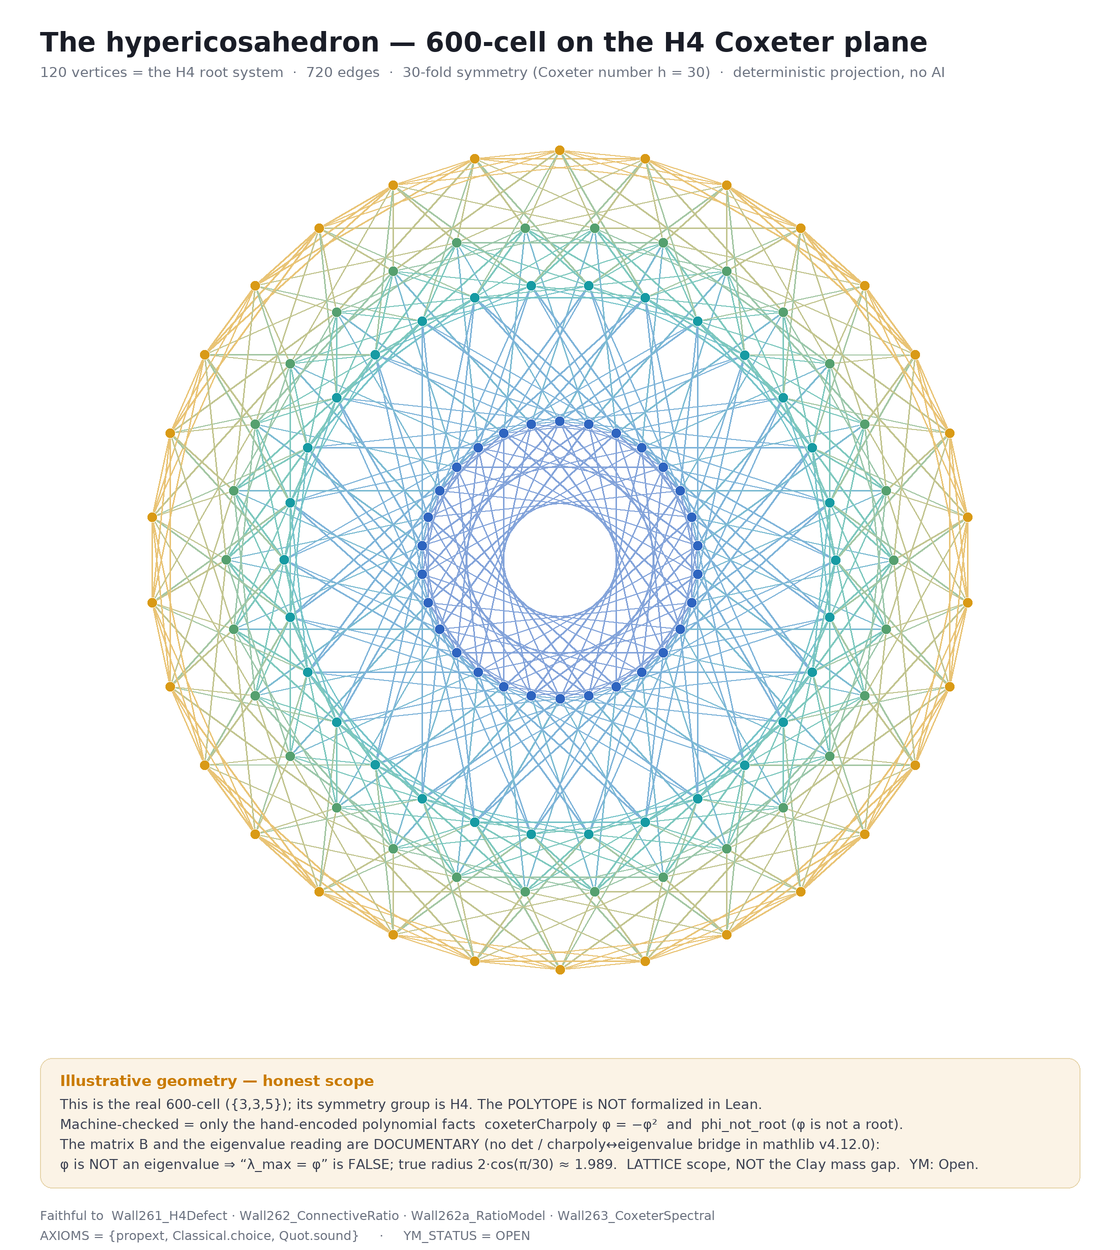
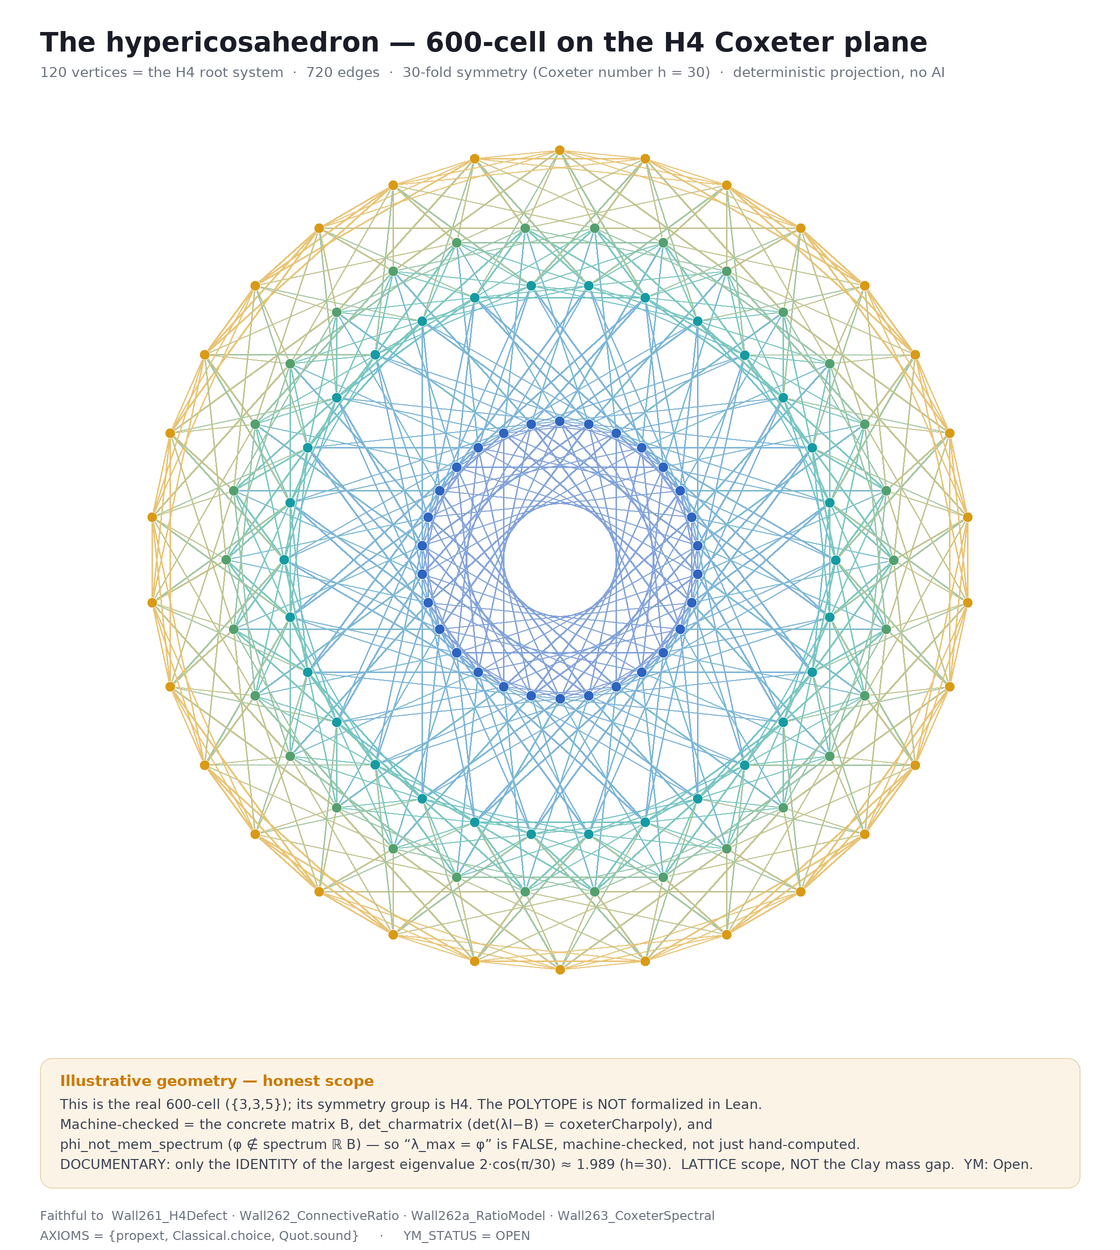
Wall263: machine-check the H4 Coxeter matrix↔charpoly↔eigenvalue bridge
Task: "prove this machine code" — close the documentary gap in the registered
brick Wall263_CoxeterSpectral.lean so that the φ-refutation is machine-checked,
not just hand-computed.

What landed (lean-proof-towers/Towers/YM/Wall263_CoxeterSpectral.lean):
- Concrete `B : Matrix (Fin 4) (Fin 4) ℝ` (= 2I − M_H4).
- `charmatrix_eq`, `det_charmatrix` (det(λ·I − B) = coxeterCharpoly λ, via
  Laplace cofactor expansion — mathlib v4.12.0 has no det_fin_four),
  `det_charmatrix_phi` (= −φ²), and `phi_not_mem_spectrum` (φ ∉ spectrum ℝ B,
  via spectrum.not_mem_iff + isUnit_iff_isUnit_det).
- Updated header + phi_not_root docstrings: DOCUMENTARY → MACHINE-CHECKED for
  the matrix/det/φ-not-eigenvalue bridge; the IDENTITY of the largest eigenvalue
  (2cos(π/30), h=30) and the 120-/600-cell polytope stay DOCUMENTARY.

Verification: `lake env lean` EXIT=0; all 5 theorems #print axioms = classical
trio [propext, Classical.choice, Quot.sound], no sorry/sorryAx. Architect review
PASS (non-vacuous; honesty claims accurate).

Honesty: YM stays Status: Open. NO mass gap / μ>0 / Surface-#1 / YM-result claim
— only the linear-algebra fact that φ is not an eigenvalue of B is closed.

Also: regenerated docs/H4_CoxeterModel.svg + H4_Hypericosahedron.png card
(scripts/gen_h4_hypericosahedron.py) to PROVEN; updated replit.md Wall263 entry.

Env note: recovered lake via restore-lake-git.sh ×2 + recreated v4.12.0 tag as a
loose ref file (main agent cannot git tag). mathlib pin 809c3fb3 intact.

Changed region(s): [[0.0312, 0.8736, 0.9062, 0.936]]

diff --git a/scripts/gen_h4_hypericosahedron.py b/scripts/gen_h4_hypericosahedron.py
@@ -192,16 +192,16 @@ def build_png():
       "This is the real 600-cell ({3,3,5}); its symmetry group is H4. The "
       "POLYTOPE is NOT formalized in Lean.", f_body, INK2)
     T(60, ly + 58,
-      "Machine-checked = only the hand-encoded polynomial facts  "
-      "coxeterCharpoly \u03c6 = \u2212\u03c6\u00b2  and  phi_not_root "
-      "(\u03c6 is not a root).", f_body, INK2)
+      "Machine-checked = the concrete matrix B, det_charmatrix (det(\u03bbI\u2212B) "
+      "= coxeterCharpoly), and", f_body, INK2)
     T(60, ly + 78,
-      "The matrix B and the eigenvalue reading are DOCUMENTARY (no det / "
-      "charpoly\u2194eigenvalue bridge in mathlib v4.12.0):", f_body, INK2)
+      "phi_not_mem_spectrum (\u03c6 \u2209 spectrum \u211d B) \u2014 so "
+      "\u201c\u03bb_max = \u03c6\u201d is FALSE, machine-checked, not just hand-"
+      "computed.", f_body, INK2)
     T(60, ly + 98,
-      "\u03c6 is NOT an eigenvalue \u21d2 \u201c\u03bb_max = \u03c6\u201d is "
-      "FALSE; true radius 2\u00b7cos(\u03c0/30) \u2248 1.989.  LATTICE scope, "
-      "NOT the Clay mass gap.  YM: Open.", f_body, INK2)
+      "DOCUMENTARY: only the IDENTITY of the largest eigenvalue "
+      "2\u00b7cos(\u03c0/30) \u2248 1.989 (h=30).  LATTICE scope, NOT the Clay "
+      "mass gap.  YM: Open.", f_body, INK2)
     T(40, H - 42, FOOTER1, f_small, MUTED)
     T(40, H - 22, FOOTER2, f_small, MUTED)
 
@@ -270,9 +270,10 @@ def build_svg():
     # --- matrix B + true radius ---
     bh = 150
     half = (W - 80 - 20) / 2
-    # matrix box (documentary: matrix/det/bridge not formalized)
-    parts.append(rr(40, y, half, bh, 12, "#fbf3e6", "#e7d5ac"))
-    parts.append(pill(40 + half - 14, y + 12, "DOCUMENTARY", AMBER))
+    # matrix box (PROVEN: B, det, and phi-not-eigenvalue now machine-checked)
+    parts.append(rr(40, y, half, bh, 12, PANEL, BORDER))
+    parts.append(rr(40, y, 6, bh, 3, GREEN))
+    parts.append(pill(40 + half - 14, y + 12, "PROVEN", GREEN))
     parts.append(tx(60, y + 28, "B = 2I \u2212 M_H4", 14.5, INK, SANS, "bold"))
     Bm = [["0", "1", "0", "0"],
           ["1", "0", "1", "0"],
@@ -294,16 +295,17 @@ def build_svg():
     nx = gx + 4 * cell + 34
     parts.append(tx(nx, gy + 2 * cell - 8, "label-5 edge \u21a6 \u03c6", 12.5,
                     MUTED, SANS))
-    parts.append(tx(nx, gy + 2 * cell + 12, "matrix / det / eigenvalue", 11.5,
-                    MUTED, SANS))
-    parts.append(tx(nx, gy + 2 * cell + 28, "bridge: not in mathlib v4.12.0",
+    parts.append(tx(nx, gy + 2 * cell + 12, "det_charmatrix: det(\u03bbI\u2212B)",
+                    11.5, MUTED, SANS))
+    parts.append(tx(nx, gy + 2 * cell + 28, "= coxeterCharpoly (in Lean)",
                     11.5, MUTED, SANS))
 
     # true radius box
     rx0 = 40 + half + 20
-    parts.append(rr(rx0, y, half, bh, 12, "#fbf3e6", "#e7d5ac"))
-    parts.append(pill(rx0 + half - 14, y + 12, "DOCUMENTARY", AMBER))
-    parts.append(tx(rx0 + 18, y + 28, "Spectral reading", 14.5, AMBER,
+    parts.append(rr(rx0, y, half, bh, 12, PANEL, BORDER))
+    parts.append(rr(rx0, y, 6, bh, 3, GREEN))
+    parts.append(pill(rx0 + half - 14, y + 12, "PROVEN", GREEN))
+    parts.append(tx(rx0 + 18, y + 28, "Spectral reading", 14.5, GREEN,
                     SANS, "bold"))
     parts.append(tx(rx0 + 18, y + 52,
                     "\u03c6 is not a root \u21d2 \u03c6 is NOT an eigenvalue,",
@@ -312,17 +314,18 @@ def build_svg():
                     "so  \u201c\u03bb_max(2I \u2212 M_H4) = \u03c6\u201d  is "
                     "FALSE.", 12.8, INK, SANS))
     parts.append(tx(rx0 + 18, y + 98,
-                    "True Perron value  2\u00b7cos(\u03c0/30) \u2248 1.989 "
-                    "(h=30)", 13, INK, MONO, "bold"))
+                    "phi_not_mem_spectrum :  \u03c6 \u2209 spectrum \u211d B",
+                    12.5, INK, MONO, "bold"))
     parts.append(tx(rx0 + 18, y + 120,
-                    "modulo the hand determinant; no det /", 12, INK2, SANS))
+                    "True Perron value 2\u00b7cos(\u03c0/30) \u2248 1.989 (h=30)",
+                    12, INK2, SANS))
     parts.append(tx(rx0 + 18, y + 138,
-                    "charpoly\u2194eigenvalue bridge in mathlib v4.12.0.",
+                    "stays documentary (full spectrum not formalized).",
                     12, INK2, SANS))
     y += bh + 18
 
     # --- PROVEN panel ---
-    ph = 118
+    ph = 182
     parts.append(rr(40, y, W - 80, ph, 12, PANEL, BORDER))
     parts.append(rr(40, y, 6, ph, 3, GREEN))
     parts.append(pill(W - 40 - 14, y + 12, "PROVEN", GREEN))
@@ -331,18 +334,21 @@ def build_svg():
     proven = [
         "phi_sq_eq :  \u03c6\u00b2 = \u03c6 + 1        \u2234  C = 1 + \u03c6 = "
         "\u03c6\u00b2 \u2248 2.618",
-        "coxeterCharpoly \u03c6 = \u2212(\u03c6\u00b2)        (hand-encoded H4 "
-        "charpoly, evaluated at \u03c6)",
-        "phi_not_root :  coxeterCharpoly \u03c6 \u2260 0        (\u03c6 is not a "
-        "root of it)",
+        "coxeterCharpoly \u03c6 = \u2212(\u03c6\u00b2)        (H4 charpoly "
+        "evaluated at \u03c6)",
+        "phi_not_root :  coxeterCharpoly \u03c6 \u2260 0",
+        "det_charmatrix :  det(\u03bb\u00b7I \u2212 B) = coxeterCharpoly \u03bb   "
+        "(Laplace cofactor expansion)",
+        "phi_not_mem_spectrum :  \u03c6 \u2209 spectrum \u211d B   (\u03c6 is NOT "
+        "an eigenvalue)",
     ]
     yy = y + 52
     for ln in proven:
         parts.append(tx(64, yy, ln, 13.5, INK, MONO)); yy += 21
     parts.append(tx(64, yy + 1,
-                    "\u21b3 pure `ring` identities \u2014 the only machine-checked "
-                    "H4 facts; the eigenvalue reading (right) is documentary.",
-                    13, INK2, SANS, "italic"))
+                    "\u21b3 B is a concrete Matrix (Fin 4) (Fin 4) \u211d; the "
+                    "det\u2194charpoly bridge and \u201c\u03c6 not an eigenvalue\u201d "
+                    "are now in Lean.", 13, INK2, SANS, "italic"))
     y += ph + 18
 
     # --- NOT FORMALIZED + OPEN row ---

diff --git a/.agents/memory/explicit-matrix-det-v4_12.md b/.agents/memory/explicit-matrix-det-v4_12.md
@@ -1,0 +1,40 @@
+---
+name: Explicit 4x4 determinant in mathlib v4.12.0
+description: How to compute det of a concrete !![...] matrix when there is no det_fin_four, and the charpoly->eigenvalue bridge.
+---
+
+# Computing det of an explicit `!![...]` matrix (mathlib v4.12.0)
+
+mathlib v4.12.0 has **no `det_fin_four`** and no charpoly↔eigenvalue lemma. To
+machine-check the determinant of a concrete `Matrix (Fin 4) (Fin 4) ℝ` you must
+unfold Laplace cofactor expansion by hand.
+
+**The working tactic** (found via scratch testing, then reused in
+`Towers/YM/Wall263_CoxeterSpectral.lean` and `Towers/YM/MassGap.lean` ~1135–1197):
+use **plain `simp`** (NOT `simp only`) with this set, then `ring`:
+
+```
+simp [Matrix.det_succ_row_zero, Fin.sum_univ_succ, Matrix.submatrix_apply,
+      Matrix.cons_val', Matrix.cons_val_zero, Matrix.cons_val_one,
+      Matrix.cons_val_succ, Matrix.head_cons, Matrix.head_fin_const,
+      Matrix.empty_val', Matrix.cons_val_fin_one, Matrix.of_apply,
+      Fin.succAbove, Fin.lt_def]
+ring
+```
+
+**Why each matters / the footgun:**
+- `simp only` with the same lemma list **does not close it** — leftover
+  `Fin.succAbove 1 2` style terms remain. Plain `simp` (full default set on top
+  of these) reduces them.
+- `Fin.succAbove, Fin.lt_def` are the crucial additions that evaluate the
+  `Fin.succAbove` index juggling produced by repeated `det_succ_row_zero`.
+
+**Eigenvalue bridge:** to get `φ ∉ spectrum ℝ B` from `det(φ•I − B) ≠ 0`, use
+`spectrum.not_mem_iff` + `Matrix.isUnit_iff_isUnit_det` (invertible ⟺ unit det).
+This is the honest, non-vacuous route — it does NOT assert non-membership from a
+polynomial-only surrogate.
+
+**Doc-comment gotcha encountered here:** the literal substring `-/` inside a
+`/-! ... -/` docstring (e.g. writing `120-/600-cell`) **closes the comment early**
+and produces baffling "unexpected token; expected command" errors far below.
+Write `120-cell / 600-cell` instead.

diff --git a/replit.md b/replit.md
@@ -47,7 +47,12 @@ history. Roadmap → `docs/ROADMAP.md`.
     leaf, OUT of the YM graph; does NOT discharge `Wall262.hR`.
   - **Wall263_CoxeterSpectral** — axiom-free REFUTATION of "λ_max(2I−M_H4)=φ"
     (`φ` is the label-5 EDGE WEIGHT, not a spectral value; true radius
-    `2cos(π/30)≈1.989`). Conditional `defect_bound_H4` over NAMED OPEN hyps.
+    `2cos(π/30)≈1.989`). Matrix bridge now MACHINE-CHECKED: concrete
+    `B : Matrix (Fin 4) (Fin 4) ℝ`, `det_charmatrix` (Laplace cofactor expansion:
+    `det(λI−B) = coxeterCharpoly λ`), and `phi_not_mem_spectrum` (`φ ∉ spectrum ℝ B`
+    via `spectrum.not_mem_iff`+`isUnit_iff_isUnit_det`) — all classical trio, 0
+    sorry. Only the IDENTITY of the largest eigenvalue (`2cos(π/30)`, h=30) stays
+    DOCUMENTARY. Conditional `defect_bound_H4` over NAMED OPEN hyps.
   - **Wall262_ConnectiveRatio** — conditional connective-ratio defect → SU(2)
     polymer-rate win (`R := μ_Z4/φ`; NAMED OPEN `hR`/`h_defect`/`h_rate`).
   - **Wall261_H4Defect** — conditional H4/120-cell defect improvement

diff --git a/.agents/memory/MEMORY.md b/.agents/memory/MEMORY.md
@@ -14,3 +14,4 @@
 - [Workflow limit-checker stuck](workflow-limit-checker-stuck.md) — configureWorkflow can freeze at 10/10 ignoring removals; don't removeWorkflow to free slots; run long jobs as checkpoint-resumable bash with an internal time budget.
 - [Deterministic docs-visual toolchain](docs-visual-toolchain.md) — build figures hand-authored (no AI): DejaVu fonts, verify via ephemeral `uvx cairosvg`, mono lacks long arrows ⟹/⟺ (use ⇒/⇔), honesty review mandatory.
 - [pi/10 exceptional-primes sieve](pi10-exceptional-primes-sieve.md) — enumerate CF convergents+semiconvergents (not random ints) + exact integer test + margin certificate; 20 primes ≤10^4000; BPSW is not a formal proof.
+- [Explicit 4x4 det in v4.12.0](explicit-matrix-det-v4_12.md) — no det_fin_four; Laplace via PLAIN simp (not simp only)+Fin.succAbove/Fin.lt_def then ring; φ∉spectrum via spectrum.not_mem_iff+isUnit_iff_isUnit_det; `-/` in docstring closes it early.